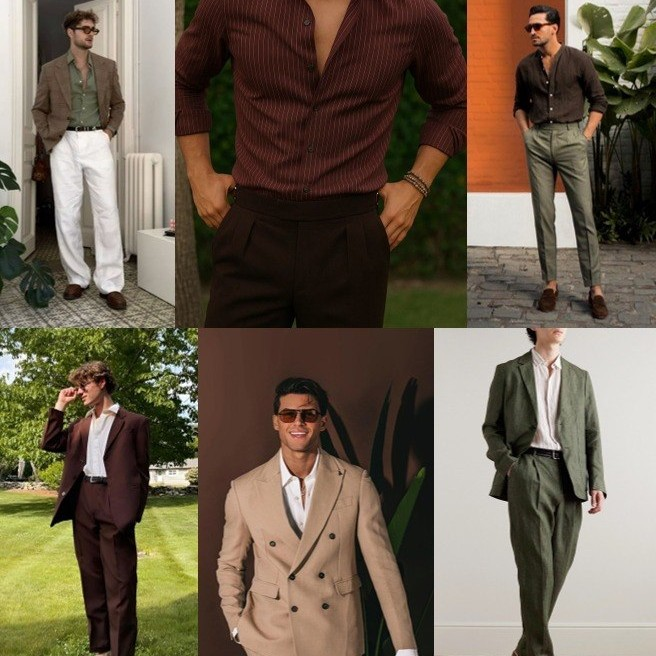
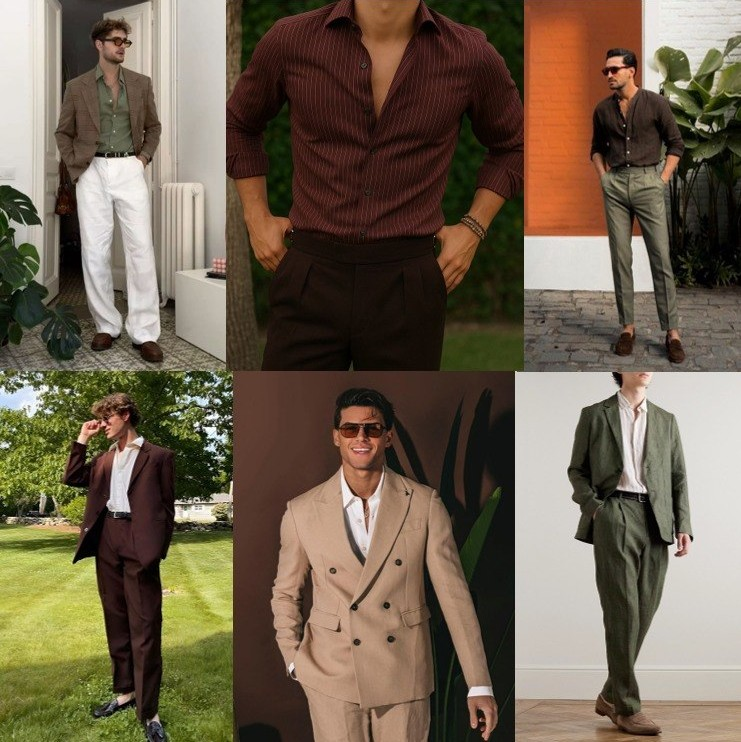
Промежуточное состояние 2

diff --git a/Invitation.html b/Invitation.html
@@ -3001,6 +3001,15 @@
                     }
                 }
             </style>
+            <style>
+                /* Уменьшаем высоту блока */
+                .t396__artboard[data-artboard-recid="1462533511"],
+                .t396__artboard[data-artboard-recid="1462533511"] .t396__carrier,
+                .t396__artboard[data-artboard-recid="1462533511"] .t396__filter {
+                    height: 1500px !important;
+                    min-height: 1500px !important;
+                }
+            </style>
             <div class="t396">
                 <div class="t396__artboard rendered" data-artboard-recid="1462533511" data-artboard-screens="320,1200"
                     data-artboard-height="1800" data-artboard-valign="center" data-artboard-upscale="grid"
@@ -3027,7 +3036,7 @@
                         data-field-topunits-value="px" data-field-leftunits-value="px" data-field-heightunits-value="px"
                         data-field-widthunits-value="px" data-animate-style="fadein" data-animate-duration="5"
                         data-animate-mobile="y" data-field-filewidth-value="1680" data-field-fileheight-value="684"
-                        data-field-heightmode-value="hug" data-field-top-res-320-value="505"
+                        data-field-heightmode-value="hug" data-field-top-res-320-value="480"
                         data-field-left-res-320-value="0" data-field-height-res-320-value="131"
                         data-field-width-res-320-value="320"
                         data-fields="img,width,filewidth,fileheight,top,left,container,axisx,axisy,widthunits,leftunits,topunits"
@@ -3040,19 +3049,19 @@
                         </div>
                     </div>
                     <div class="t396__elem tn-elem tn-elem__14625335111707816251264 t-animate t-animate_started"
-                        data-elem-id="1707816251264" data-elem-type="image" data-field-top-value="1321"
+                        data-elem-id="1707816251264" data-elem-type="image" data-field-top-value="1150"
                         data-field-left-value="131" data-field-height-value="410" data-field-width-value="405"
                         data-field-axisy-value="top" data-field-axisx-value="left" data-field-container-value="grid"
                         data-field-topunits-value="px" data-field-leftunits-value="px" data-field-heightunits-value="px"
                         data-field-widthunits-value="px" data-animate-style="fadein" data-animate-duration="5"
                         data-animate-mobile="y" data-field-filewidth-value="1184" data-field-fileheight-value="1200"
-                        data-field-heightmode-value="hug" data-field-top-res-320-value="981"
+                        data-field-heightmode-value="hug" data-field-top-res-320-value="680"
                         data-field-left-res-320-value="0" data-field-height-res-320-value="324"
                         data-field-width-res-320-value="320"
                         data-fields="img,width,filewidth,fileheight,top,left,container,axisx,axisy,widthunits,leftunits,topunits"
                         style="left: 344px; top: 1321px; width: 405px; transition-duration: 5s;"
                         data-observer-ready="true">
-                        <div class="tn-atom t-zoomable" data-zoomable="yes"
+                        <div class="tn-atom t-zoomable" data-zoomable="yes" style="border: none !important; outline: none !important;"
                             data-img-zoom-url="https://static.tildacdn.com/tild3162-3530-4637-b630-636534363262/scale_1200.png">
                             <img class="tn-atom__img t-img loaded"
                                 data-original="https://static.tildacdn.com/tild3162-3530-4637-b630-636534363262/scale_1200.png"
@@ -3070,21 +3079,21 @@
                         <div class="tn-atom"> </div>
                     </div>
                     <div class="t396__elem tn-elem tn-elem__14625335111707816276101 t-animate t-animate_started"
-                        data-elem-id="1707816276101" data-elem-type="image" data-field-top-value="1321"
+                        data-elem-id="1707816276101" data-elem-type="image" data-field-top-value="1150"
                         data-field-left-value="673" data-field-height-value="411" data-field-width-value="395"
                         data-field-axisy-value="top" data-field-axisx-value="left" data-field-container-value="grid"
                         data-field-topunits-value="px" data-field-leftunits-value="px" data-field-heightunits-value="px"
                         data-field-widthunits-value="px" data-animate-style="fadein" data-animate-duration="5"
                         data-animate-mobile="y" data-field-filewidth-value="1192" data-field-fileheight-value="1239"
-                        data-field-heightmode-value="hug" data-field-top-res-320-value="1427"
+                        data-field-heightmode-value="hug" data-field-top-res-320-value="1135"
                         data-field-left-res-320-value="0" data-field-height-res-320-value="333"
                         data-field-width-res-320-value="320"
                         data-fields="img,width,filewidth,fileheight,top,left,container,axisx,axisy,widthunits,leftunits,topunits"
                         style="left: 886px; top: 1321px; width: 395px; transition-duration: 5s;"
                         data-observer-ready="true">
-                        <div class="tn-atom t-zoomable" data-zoomable="yes"
+                        <div class="tn-atom t-zoomable" data-zoomable="yes" style="border: none !important; outline: none !important;"
                             data-img-zoom-url="https://static.tildacdn.com/tild6238-3737-4132-b930-316230303366/Frame_6_2.jpg">
-                            <img class="tn-atom__img t-img loaded"
+                            <img class="tn-atom__img t-img loaded" 
                                 src="./images/men_look.jpg" alt="" imgfield="tn_img_1707816276101">
                         </div>
                     </div>
@@ -3150,13 +3159,13 @@
                                 src="./images/_(3).png.webp" alt="" imgfield="tn_img_1708686500720"> </div>
                     </div> -->
                     <div class="t396__elem tn-elem tn-elem__14625335111708687020962 t-animate t-animate_started"
-                        data-elem-id="1708687020962" data-elem-type="image" data-field-top-value="1208"
+                        data-elem-id="1708687020962" data-elem-type="image" data-field-top-value="800"
                         data-field-left-value="233" data-field-height-value="87" data-field-width-value="200"
                         data-field-axisy-value="top" data-field-axisx-value="left" data-field-container-value="grid"
                         data-field-topunits-value="px" data-field-leftunits-value="px" data-field-heightunits-value="px"
                         data-field-widthunits-value="px" data-animate-style="fadein" data-animate-duration="5"
                         data-animate-mobile="y" data-field-filewidth-value="1225" data-field-fileheight-value="534"
-                        data-field-heightmode-value="hug" data-field-top-res-320-value="914"
+                        data-field-heightmode-value="hug" data-field-top-res-320-value="600"
                         data-field-left-res-320-value="0" data-field-height-res-320-value="58"
                         data-field-width-res-320-value="132"
                         data-fields="img,width,filewidth,fileheight,top,left,container,axisx,axisy,widthunits,leftunits,topunits"
@@ -3219,13 +3228,13 @@
                             минимальным и естественным орнаментам в ваших образах.</div>
                     </div> -->
                     <div class="t396__elem tn-elem tn-elem__14625335111708687158854 t-animate t-animate_started"
-                        data-elem-id="1708687158854" data-elem-type="image" data-field-top-value="1208"
+                        data-elem-id="1708687158854" data-elem-type="image" data-field-top-value="800"
                         data-field-left-value="748" data-field-height-value="96" data-field-width-value="265"
                         data-field-axisy-value="top" data-field-axisx-value="left" data-field-container-value="grid"
                         data-field-topunits-value="px" data-field-leftunits-value="px" data-field-heightunits-value="px"
                         data-field-widthunits-value="px" data-animate-style="fadein" data-animate-duration="5"
                         data-animate-mobile="y" data-field-filewidth-value="1675" data-field-fileheight-value="605"
-                        data-field-heightmode-value="hug" data-field-top-res-320-value="1355"
+                        data-field-heightmode-value="hug" data-field-top-res-320-value="1040"
                         data-field-left-res-320-value="0" data-field-height-res-320-value="64"
                         data-field-width-res-320-value="178"
                         data-fields="img,width,filewidth,fileheight,top,left,container,axisx,axisy,widthunits,leftunits,topunits"
